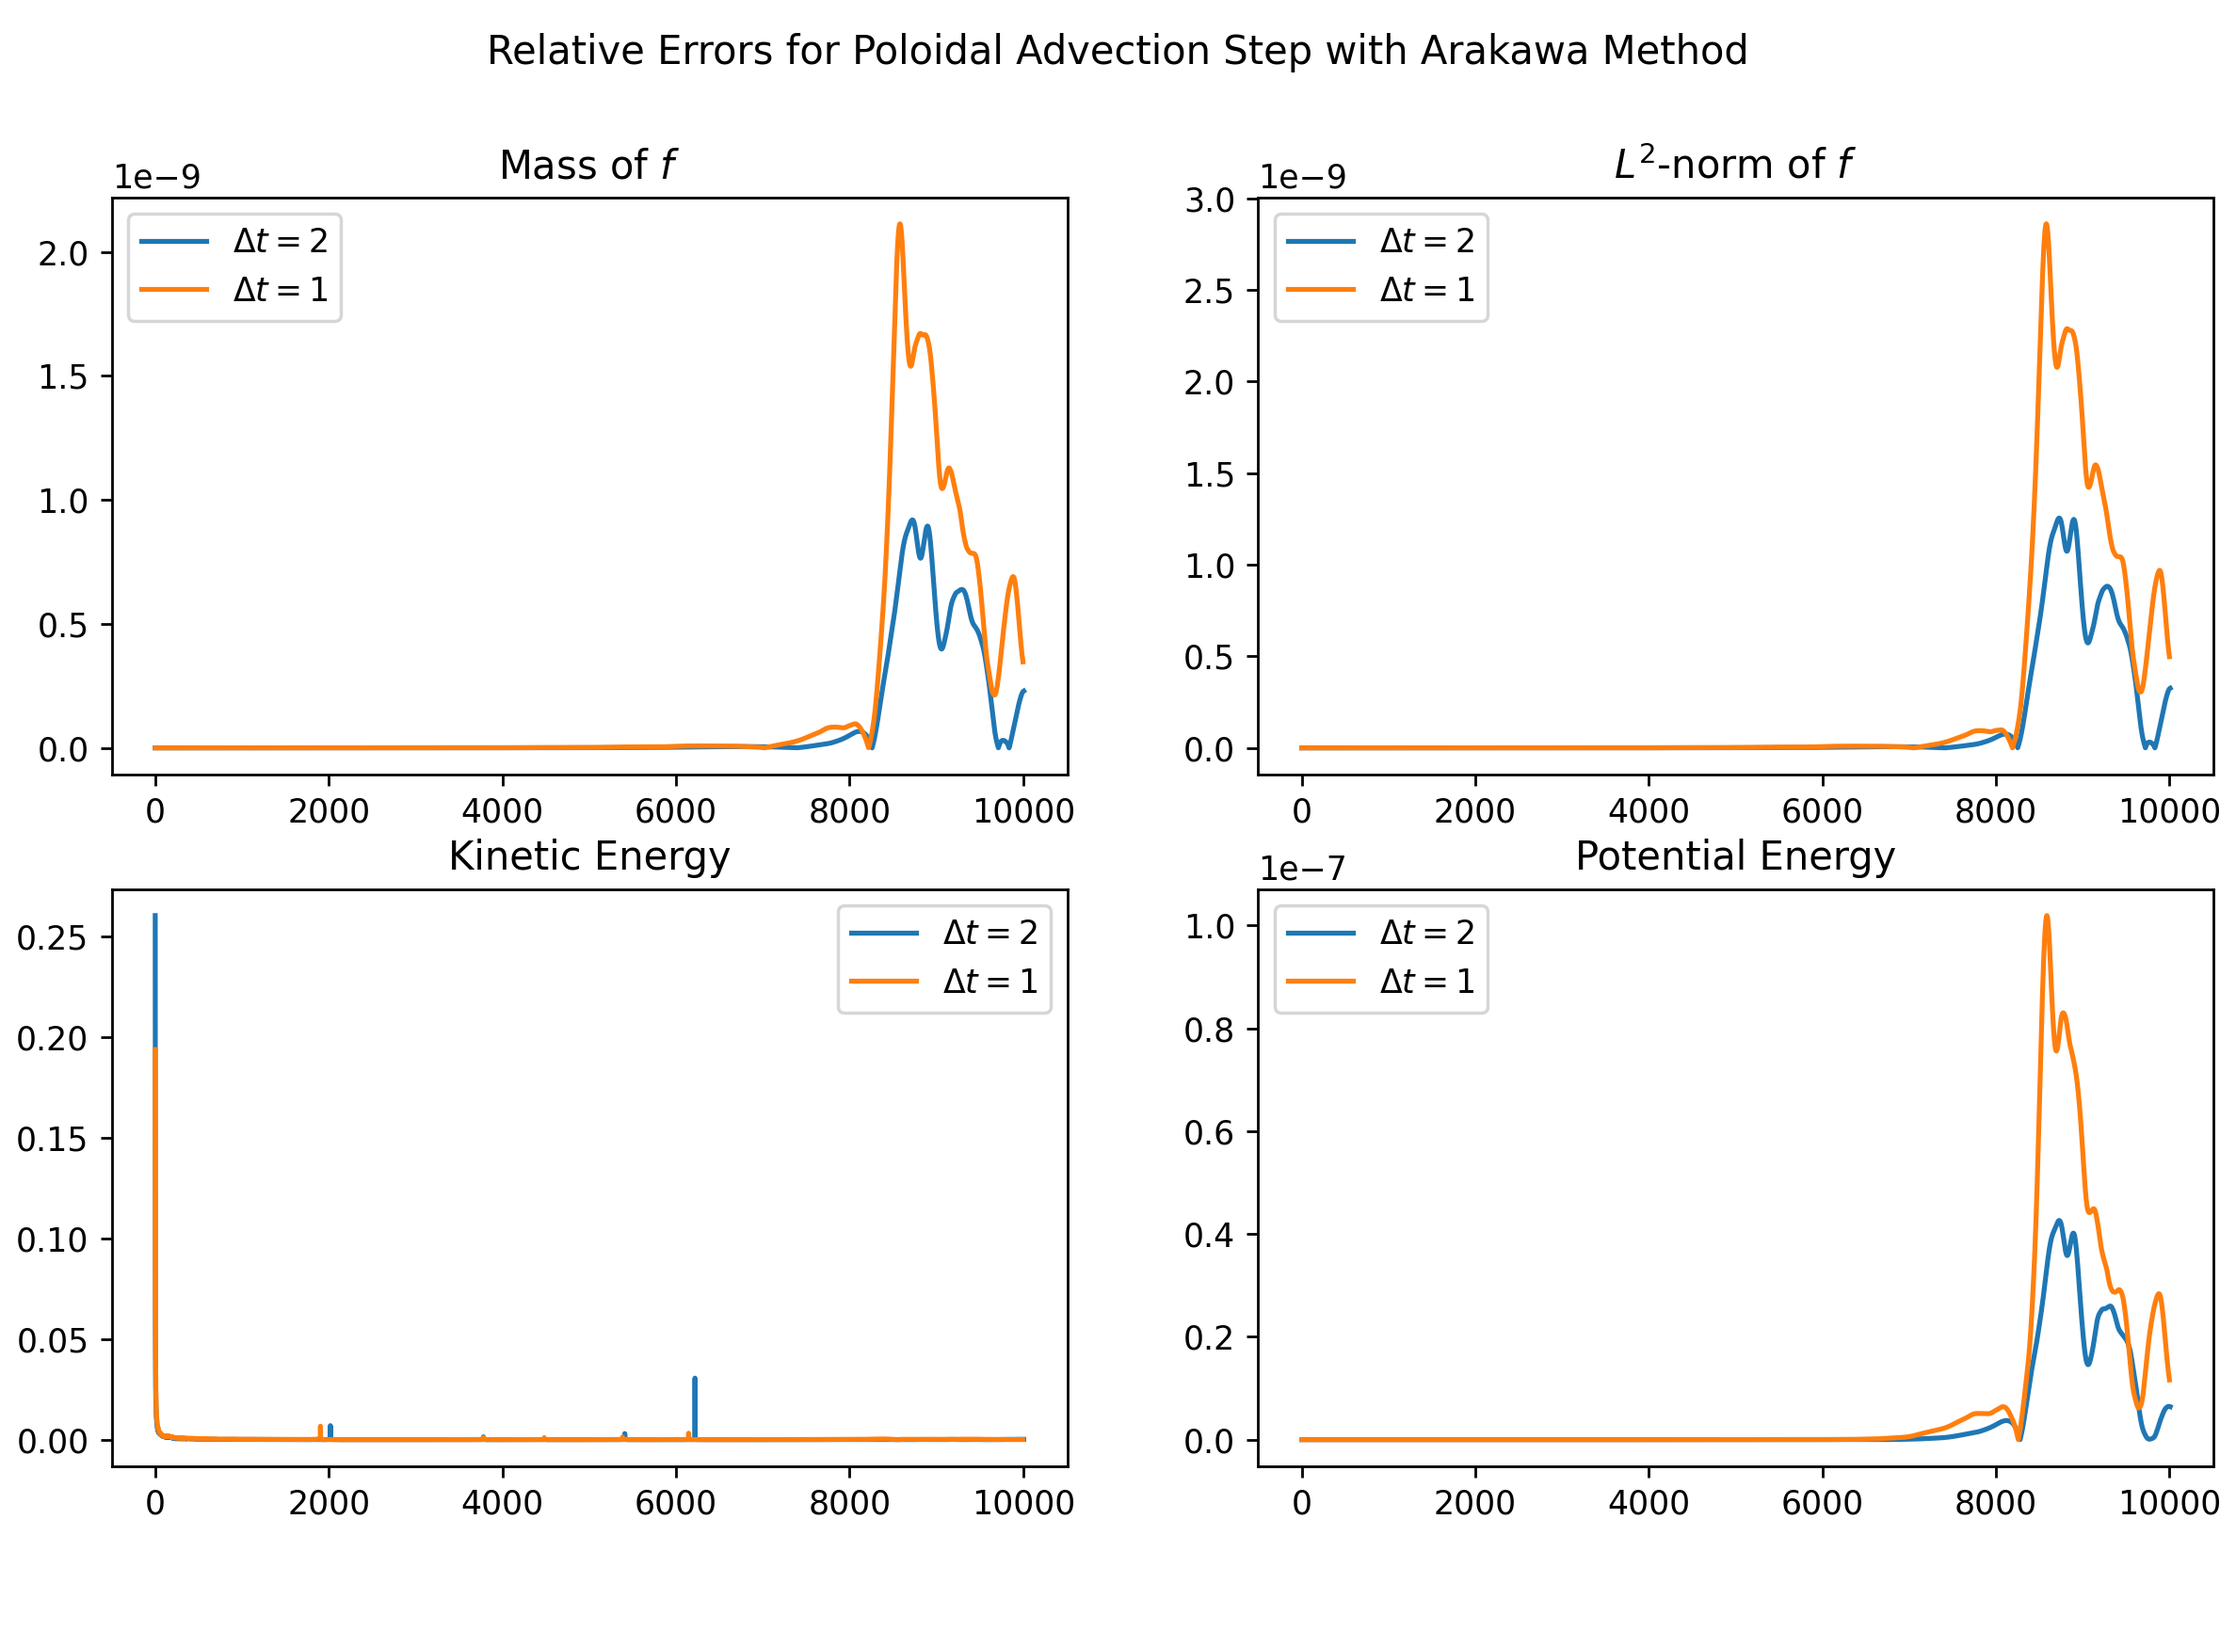
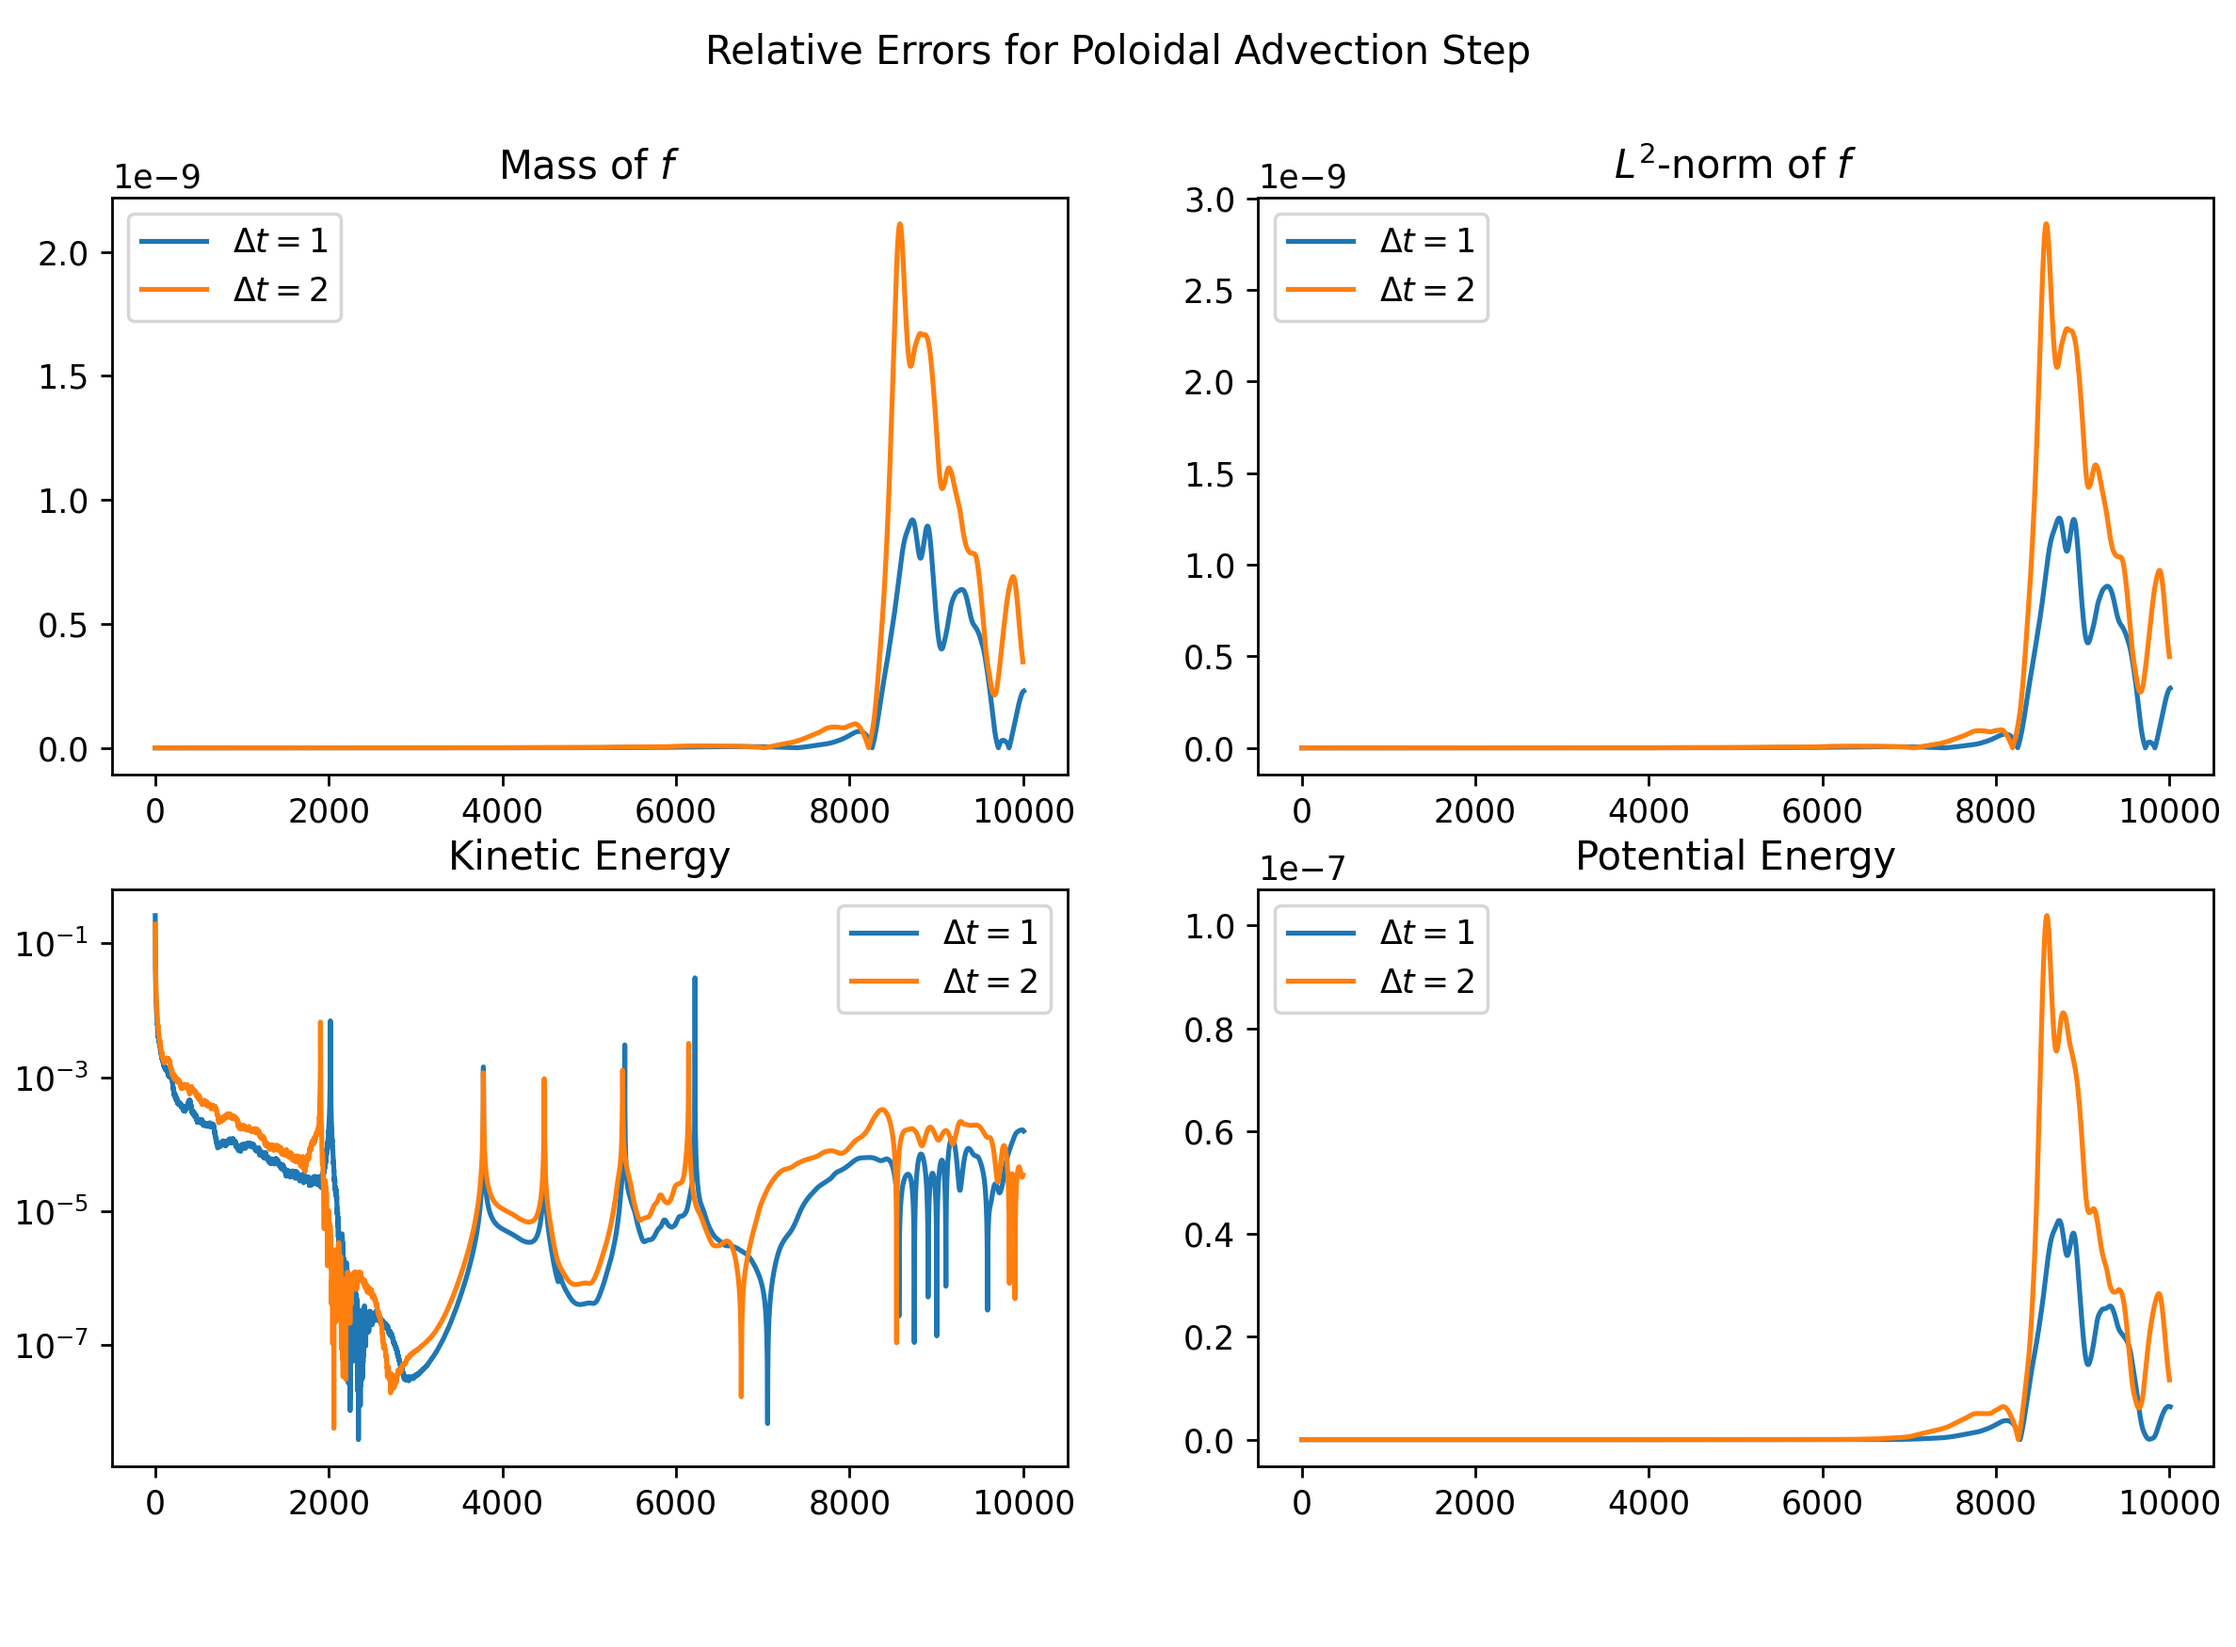
Clean up some pics

diff --git a/sections/numerical_experiments.tex b/sections/numerical_experiments.tex
@@ -104,7 +104,7 @@ We can clearly see that the Arakawa scheme preserves the conserved quantities mu
 
 The kinetic energy is also much better preserved.
 
-The same study with time-step size $\Delta t = 2$ was done yielding qualitatively the same results in terms of improvements of the Arakawa method of the Semi-Lagrangian scheme. It is therefore interesting to compare the results of the poloidal advection step for the Arakawa method for the two time step-sizes; these results are shown in figure \ref{fig:relerrlog_akw}. We see that the doubling of the time step-size results in double the absolute error for the conserved quantities, and about a factor of 5 for the kinetic energy.
+The same study with time-step size $\Delta t = 2$ was done yielding qualitatively the same results in terms of improvements of the Arakawa method of the Semi-Lagrangian scheme. It is therefore interesting to compare the results of the poloidal advection step for the Arakawa method for the two time step-sizes; these results are shown in figure \ref{fig:relerr_akw}. We see that the doubling of the time step-size results in double the absolute error for the conserved quantities, and about a factor of 5 for the kinetic energy.
 
 
 \begin{figure}
@@ -123,9 +123,9 @@ The same study with time-step size $\Delta t = 2$ was done yielding qualitativel
 
 \begin{figure}
 	\centering
-	\includegraphics[width=0.9\linewidth]{plots/rel_err_log akw}
+	\includegraphics[width=0.9\linewidth]{plots/rel_err akw}
 	\caption{The relative error for different quantities before and after the poloidal advection step on a semi-logarithmic scale with the Arakawa method, comparing time step-size $\Delta t = 1$ and $\Delta t = 2$..}
-	\label{fig:relerrlog_akw}
+	\label{fig:relerr_akw}
 \end{figure}
 
 
